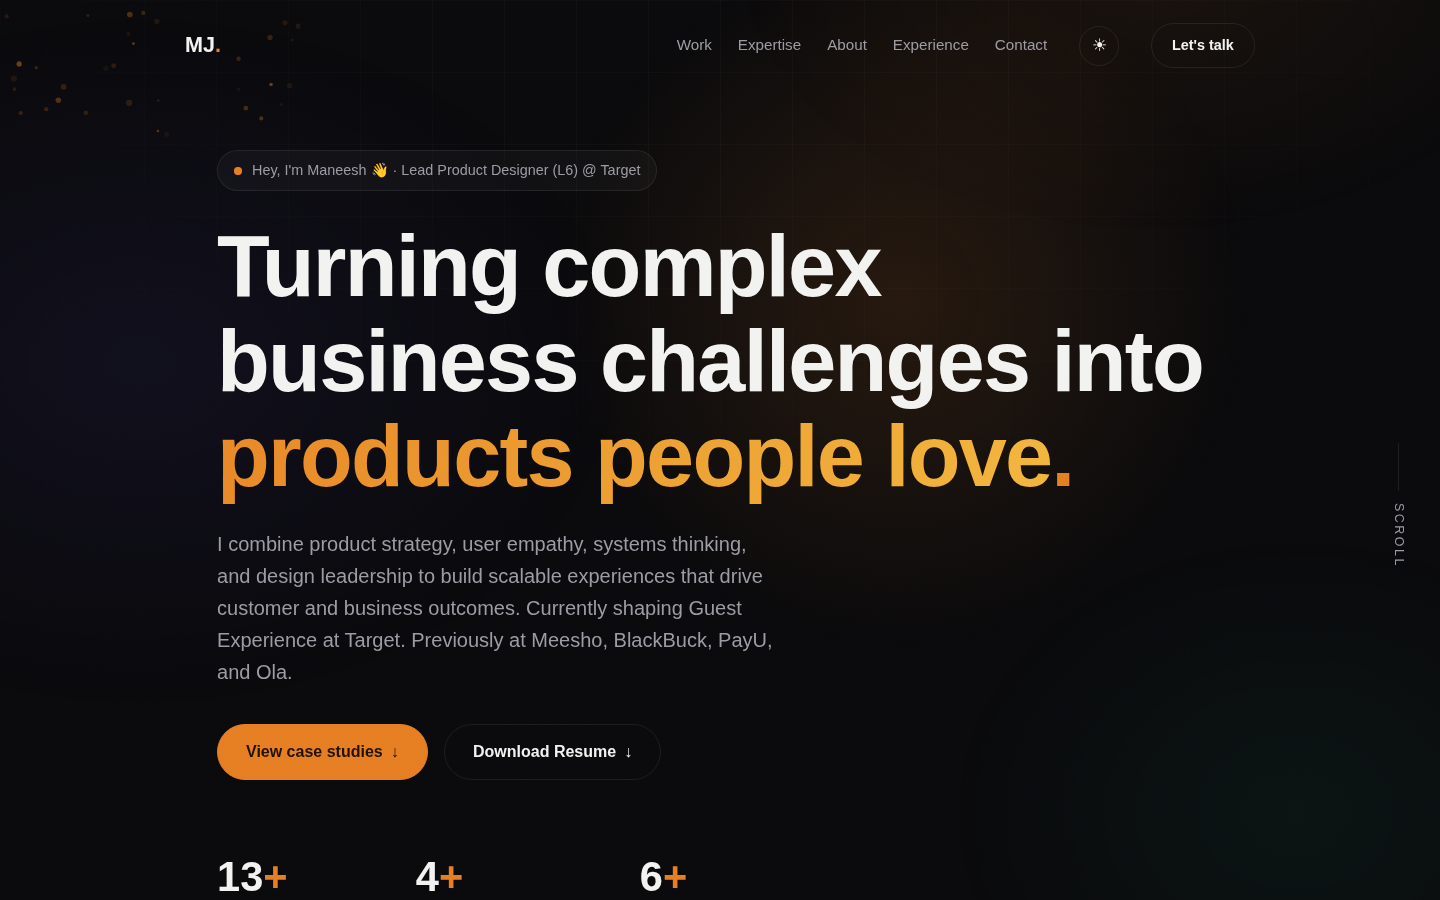
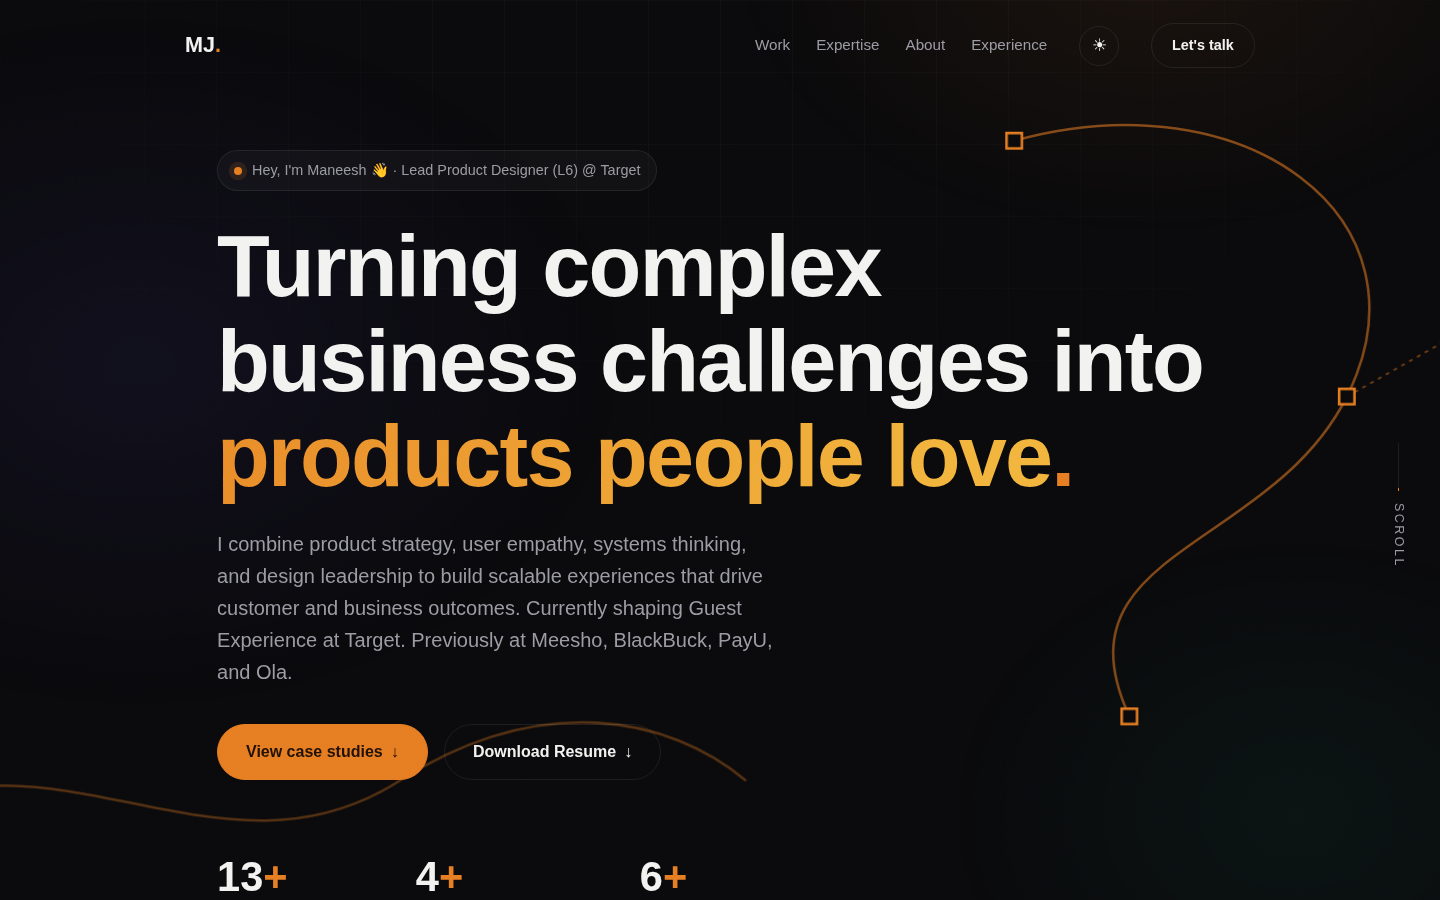
Replace dot particles with pen-tool path-draw hero animation
Two bezier strokes draw themselves on loop with Figma-style anchor squares
and dashed handles; group parallaxes with cursor. Disabled under
prefers-reduced-motion.

https://claude.ai/code/session_01CrvKz3eqMyGA3YrXnTVdKT

diff --git a/maneesh-portfolio-standalone.html b/maneesh-portfolio-standalone.html
@@ -806,9 +806,39 @@ html[data-theme="light"] .nav-toggle span { background: var(--text); }
 }
 
 /* ── Hero spotlight + particles ── */
-.hero-particles, .hero-spotlight {
+.hero-pen, .hero-spotlight {
   position: absolute; inset: 0; pointer-events: none; z-index: 0;
 }
+.hero-pen { width: 100%; height: 100%; }
+.pen-path {
+  fill: none; stroke: rgba(230, 126, 34, 0.55); stroke-width: 2;
+  stroke-linecap: round;
+  stroke-dasharray: var(--len, 1200); stroke-dashoffset: var(--len, 1200);
+  animation: penDraw 10s var(--ease) infinite;
+}
+.pen-path.p2 { animation-delay: 1.4s; stroke: rgba(230, 126, 34, 0.35); }
+@keyframes penDraw {
+  0% { stroke-dashoffset: var(--len, 1200); opacity: 1; }
+  38% { stroke-dashoffset: 0; opacity: 1; }
+  74% { stroke-dashoffset: 0; opacity: 1; }
+  86% { stroke-dashoffset: 0; opacity: 0; }
+  100% { stroke-dashoffset: var(--len, 1200); opacity: 0; }
+}
+.pen-anchor {
+  fill: var(--bg); stroke: var(--accent); stroke-width: 2;
+  transform-box: fill-box; transform-origin: center;
+  animation: penPop 10s var(--ease) infinite;
+}
+.pen-handle { stroke: rgba(230, 126, 34, 0.45); stroke-width: 1.5; stroke-dasharray: 3 4; animation: penPop 10s var(--ease) infinite; }
+.pen-handle-dot { fill: var(--accent); animation: penPop 10s var(--ease) infinite; }
+.pen-anchors.a2 .pen-anchor, .pen-anchors.a2 .pen-handle, .pen-anchors.a2 .pen-handle-dot { animation-delay: 1.4s; }
+@keyframes penPop {
+  0%, 36% { opacity: 0; transform: scale(0); }
+  44% { opacity: 1; transform: scale(1); }
+  74% { opacity: 1; transform: scale(1); }
+  84%, 100% { opacity: 0; transform: scale(0); }
+}
+html[data-theme="light"] .pen-anchor { fill: #f7f7f8; }
 .hero-spotlight {
   opacity: 0; transition: opacity 0.6s;
   background: radial-gradient(540px circle at var(--hx, 50%) var(--hy, 40%),
@@ -821,7 +851,7 @@ html[data-theme="light"] .hero-spotlight {
     rgba(230, 126, 34, 0.16), transparent 65%);
 }
 @media (prefers-reduced-motion: reduce) {
-  .hero-particles, .hero-spotlight { display: none; }
+  .hero-pen, .hero-spotlight { display: none; }
 }
 
 </style>
@@ -879,7 +909,28 @@ html[data-theme="light"] .hero-spotlight {
 
     <!-- ── HERO ── -->
     <section class="hero">
-      <canvas class="hero-particles" id="heroParticles" aria-hidden="true"></canvas>
+      <svg class="hero-pen" id="heroPen" viewBox="0 0 1440 800" preserveAspectRatio="xMidYMid slice" aria-hidden="true">
+        <g id="penGroup">
+          <!-- stroke 1: top right -->
+          <path class="pen-path" d="M 950 110 C 1130 60, 1280 170, 1210 310 C 1150 430, 980 430, 1040 560" />
+          <g class="pen-anchors a1">
+            <line class="pen-handle" x1="1210" y1="310" x2="1295" y2="262" />
+            <circle class="pen-handle-dot" cx="1295" cy="262" r="4" />
+            <rect class="pen-anchor" x="944" y="104" width="12" height="12" />
+            <rect class="pen-anchor" x="1204" y="304" width="12" height="12" />
+            <rect class="pen-anchor" x="1034" y="554" width="12" height="12" />
+          </g>
+          <!-- stroke 2: bottom left -->
+          <path class="pen-path p2" d="M 60 640 C 200 560, 330 700, 470 610 C 580 540, 680 560, 740 610" />
+          <g class="pen-anchors a2">
+            <line class="pen-handle" x1="470" y1="610" x2="540" y2="668" />
+            <circle class="pen-handle-dot" cx="540" cy="668" r="4" />
+            <rect class="pen-anchor" x="54" y="634" width="12" height="12" />
+            <rect class="pen-anchor" x="464" y="604" width="12" height="12" />
+            <rect class="pen-anchor" x="734" y="604" width="12" height="12" />
+          </g>
+        </g>
+      </svg>
       <div class="hero-spotlight" aria-hidden="true"></div>
       <div class="container">
         <p class="hero-badge intro intro-1"><span class="pulse-dot"></span> Hey, I'm Maneesh 👋 · Lead Product Designer (L6) @ Target</p>
@@ -1378,65 +1429,23 @@ if (finePointer && !reduceMotion && hero && heroSpot) {
   });
 }
 
-// ── Hero floating particles ──
-const heroCanvas = document.getElementById("heroParticles");
-if (heroCanvas && !reduceMotion) {
-  const pctx = heroCanvas.getContext("2d");
-  let w, h, parts = [], running = false, raf;
-  let mx = 0.5, my = 0.5;
-  const COUNT = 34;
-  const resize = () => {
-    const dpr = Math.min(window.devicePixelRatio || 1, 2);
-    w = heroCanvas.clientWidth;
-    h = heroCanvas.clientHeight;
-    heroCanvas.width = w * dpr;
-    heroCanvas.height = h * dpr;
-    pctx.setTransform(dpr, 0, 0, dpr, 0, 0);
-  };
-  const seed = () => {
-    parts = Array.from({ length: COUNT }, () => ({
-      x: Math.random() * w,
-      y: Math.random() * h,
-      r: 1 + Math.random() * 2.2,
-      vy: 0.15 + Math.random() * 0.35,
-      vx: (Math.random() - 0.5) * 0.12,
-      a: 0.12 + Math.random() * 0.35,
-      tw: Math.random() * Math.PI * 2,
-    }));
-  };
-  const tick = () => {
-    pctx.clearRect(0, 0, w, h);
-    const px = (mx - 0.5) * 16;
-    const py = (my - 0.5) * 12;
-    for (const p of parts) {
-      p.y -= p.vy;
-      p.x += p.vx;
-      p.tw += 0.02;
-      if (p.y < -6) { p.y = h + 6; p.x = Math.random() * w; }
-      if (p.x < -6) p.x = w + 6;
-      else if (p.x > w + 6) p.x = -6;
-      const alpha = p.a * (0.6 + 0.4 * Math.sin(p.tw));
-      pctx.beginPath();
-      pctx.arc(p.x + px * p.r * 0.3, p.y + py * p.r * 0.3, p.r, 0, Math.PI * 2);
-      pctx.fillStyle = `rgba(230, 126, 34, ${alpha})`;
-      pctx.fill();
-    }
-    raf = requestAnimationFrame(tick);
-  };
-  resize();
-  seed();
-  window.addEventListener("resize", () => { resize(); seed(); }, { passive: true });
-  if (finePointer) {
+// ── Pen-tool path draw ──
+const penSvg = document.getElementById("heroPen");
+if (penSvg && !reduceMotion) {
+  penSvg.querySelectorAll(".pen-path").forEach((p) => {
+    const len = Math.ceil(p.getTotalLength());
+    p.style.setProperty("--len", len);
+  });
+  const penGroup = document.getElementById("penGroup");
+  if (finePointer && penGroup) {
     window.addEventListener("pointermove", (e) => {
-      mx = e.clientX / window.innerWidth;
-      my = e.clientY / window.innerHeight;
+      const dx = (e.clientX / window.innerWidth - 0.5) * 18;
+      const dy = (e.clientY / window.innerHeight - 0.5) * 12;
+      penGroup.style.transform = `translate(${dx}px, ${dy}px)`;
     }, { passive: true });
   }
-  // Animate only while the hero is on screen
-  new IntersectionObserver(([entry]) => {
-    if (entry.isIntersecting && !running) { running = true; tick(); }
-    else if (!entry.isIntersecting && running) { running = false; cancelAnimationFrame(raf); }
-  }).observe(heroCanvas);
+} else if (penSvg) {
+  penSvg.style.display = "none";
 }
 
 // ── Footer year ──

diff --git a/script.js b/script.js
@@ -184,65 +184,23 @@ if (finePointer && !reduceMotion && hero && heroSpot) {
   });
 }
 
-// ── Hero floating particles ──
-const heroCanvas = document.getElementById("heroParticles");
-if (heroCanvas && !reduceMotion) {
-  const pctx = heroCanvas.getContext("2d");
-  let w, h, parts = [], running = false, raf;
-  let mx = 0.5, my = 0.5;
-  const COUNT = 34;
-  const resize = () => {
-    const dpr = Math.min(window.devicePixelRatio || 1, 2);
-    w = heroCanvas.clientWidth;
-    h = heroCanvas.clientHeight;
-    heroCanvas.width = w * dpr;
-    heroCanvas.height = h * dpr;
-    pctx.setTransform(dpr, 0, 0, dpr, 0, 0);
-  };
-  const seed = () => {
-    parts = Array.from({ length: COUNT }, () => ({
-      x: Math.random() * w,
-      y: Math.random() * h,
-      r: 1 + Math.random() * 2.2,
-      vy: 0.15 + Math.random() * 0.35,
-      vx: (Math.random() - 0.5) * 0.12,
-      a: 0.12 + Math.random() * 0.35,
-      tw: Math.random() * Math.PI * 2,
-    }));
-  };
-  const tick = () => {
-    pctx.clearRect(0, 0, w, h);
-    const px = (mx - 0.5) * 16;
-    const py = (my - 0.5) * 12;
-    for (const p of parts) {
-      p.y -= p.vy;
-      p.x += p.vx;
-      p.tw += 0.02;
-      if (p.y < -6) { p.y = h + 6; p.x = Math.random() * w; }
-      if (p.x < -6) p.x = w + 6;
-      else if (p.x > w + 6) p.x = -6;
-      const alpha = p.a * (0.6 + 0.4 * Math.sin(p.tw));
-      pctx.beginPath();
-      pctx.arc(p.x + px * p.r * 0.3, p.y + py * p.r * 0.3, p.r, 0, Math.PI * 2);
-      pctx.fillStyle = `rgba(230, 126, 34, ${alpha})`;
-      pctx.fill();
-    }
-    raf = requestAnimationFrame(tick);
-  };
-  resize();
-  seed();
-  window.addEventListener("resize", () => { resize(); seed(); }, { passive: true });
-  if (finePointer) {
+// ── Pen-tool path draw ──
+const penSvg = document.getElementById("heroPen");
+if (penSvg && !reduceMotion) {
+  penSvg.querySelectorAll(".pen-path").forEach((p) => {
+    const len = Math.ceil(p.getTotalLength());
+    p.style.setProperty("--len", len);
+  });
+  const penGroup = document.getElementById("penGroup");
+  if (finePointer && penGroup) {
     window.addEventListener("pointermove", (e) => {
-      mx = e.clientX / window.innerWidth;
-      my = e.clientY / window.innerHeight;
+      const dx = (e.clientX / window.innerWidth - 0.5) * 18;
+      const dy = (e.clientY / window.innerHeight - 0.5) * 12;
+      penGroup.style.transform = `translate(${dx}px, ${dy}px)`;
     }, { passive: true });
   }
-  // Animate only while the hero is on screen
-  new IntersectionObserver(([entry]) => {
-    if (entry.isIntersecting && !running) { running = true; tick(); }
-    else if (!entry.isIntersecting && running) { running = false; cancelAnimationFrame(raf); }
-  }).observe(heroCanvas);
+} else if (penSvg) {
+  penSvg.style.display = "none";
 }
 
 // ── Footer year ──

diff --git a/style.css b/style.css
@@ -790,9 +790,39 @@ html[data-theme="light"] .nav-toggle span { background: var(--text); }
 }
 
 /* ── Hero spotlight + particles ── */
-.hero-particles, .hero-spotlight {
+.hero-pen, .hero-spotlight {
   position: absolute; inset: 0; pointer-events: none; z-index: 0;
 }
+.hero-pen { width: 100%; height: 100%; }
+.pen-path {
+  fill: none; stroke: rgba(230, 126, 34, 0.55); stroke-width: 2;
+  stroke-linecap: round;
+  stroke-dasharray: var(--len, 1200); stroke-dashoffset: var(--len, 1200);
+  animation: penDraw 10s var(--ease) infinite;
+}
+.pen-path.p2 { animation-delay: 1.4s; stroke: rgba(230, 126, 34, 0.35); }
+@keyframes penDraw {
+  0% { stroke-dashoffset: var(--len, 1200); opacity: 1; }
+  38% { stroke-dashoffset: 0; opacity: 1; }
+  74% { stroke-dashoffset: 0; opacity: 1; }
+  86% { stroke-dashoffset: 0; opacity: 0; }
+  100% { stroke-dashoffset: var(--len, 1200); opacity: 0; }
+}
+.pen-anchor {
+  fill: var(--bg); stroke: var(--accent); stroke-width: 2;
+  transform-box: fill-box; transform-origin: center;
+  animation: penPop 10s var(--ease) infinite;
+}
+.pen-handle { stroke: rgba(230, 126, 34, 0.45); stroke-width: 1.5; stroke-dasharray: 3 4; animation: penPop 10s var(--ease) infinite; }
+.pen-handle-dot { fill: var(--accent); animation: penPop 10s var(--ease) infinite; }
+.pen-anchors.a2 .pen-anchor, .pen-anchors.a2 .pen-handle, .pen-anchors.a2 .pen-handle-dot { animation-delay: 1.4s; }
+@keyframes penPop {
+  0%, 36% { opacity: 0; transform: scale(0); }
+  44% { opacity: 1; transform: scale(1); }
+  74% { opacity: 1; transform: scale(1); }
+  84%, 100% { opacity: 0; transform: scale(0); }
+}
+html[data-theme="light"] .pen-anchor { fill: #f7f7f8; }
 .hero-spotlight {
   opacity: 0; transition: opacity 0.6s;
   background: radial-gradient(540px circle at var(--hx, 50%) var(--hy, 40%),
@@ -805,5 +835,5 @@ html[data-theme="light"] .hero-spotlight {
     rgba(230, 126, 34, 0.16), transparent 65%);
 }
 @media (prefers-reduced-motion: reduce) {
-  .hero-particles, .hero-spotlight { display: none; }
+  .hero-pen, .hero-spotlight { display: none; }
 }

diff --git a/index.html b/index.html
@@ -68,7 +68,28 @@
 
     <!-- ── HERO ── -->
     <section class="hero">
-      <canvas class="hero-particles" id="heroParticles" aria-hidden="true"></canvas>
+      <svg class="hero-pen" id="heroPen" viewBox="0 0 1440 800" preserveAspectRatio="xMidYMid slice" aria-hidden="true">
+        <g id="penGroup">
+          <!-- stroke 1: top right -->
+          <path class="pen-path" d="M 950 110 C 1130 60, 1280 170, 1210 310 C 1150 430, 980 430, 1040 560" />
+          <g class="pen-anchors a1">
+            <line class="pen-handle" x1="1210" y1="310" x2="1295" y2="262" />
+            <circle class="pen-handle-dot" cx="1295" cy="262" r="4" />
+            <rect class="pen-anchor" x="944" y="104" width="12" height="12" />
+            <rect class="pen-anchor" x="1204" y="304" width="12" height="12" />
+            <rect class="pen-anchor" x="1034" y="554" width="12" height="12" />
+          </g>
+          <!-- stroke 2: bottom left -->
+          <path class="pen-path p2" d="M 60 640 C 200 560, 330 700, 470 610 C 580 540, 680 560, 740 610" />
+          <g class="pen-anchors a2">
+            <line class="pen-handle" x1="470" y1="610" x2="540" y2="668" />
+            <circle class="pen-handle-dot" cx="540" cy="668" r="4" />
+            <rect class="pen-anchor" x="54" y="634" width="12" height="12" />
+            <rect class="pen-anchor" x="464" y="604" width="12" height="12" />
+            <rect class="pen-anchor" x="734" y="604" width="12" height="12" />
+          </g>
+        </g>
+      </svg>
       <div class="hero-spotlight" aria-hidden="true"></div>
       <div class="container">
         <p class="hero-badge intro intro-1"><span class="pulse-dot"></span> Hey, I'm Maneesh 👋 · Lead Product Designer (L6) @ Target</p>
